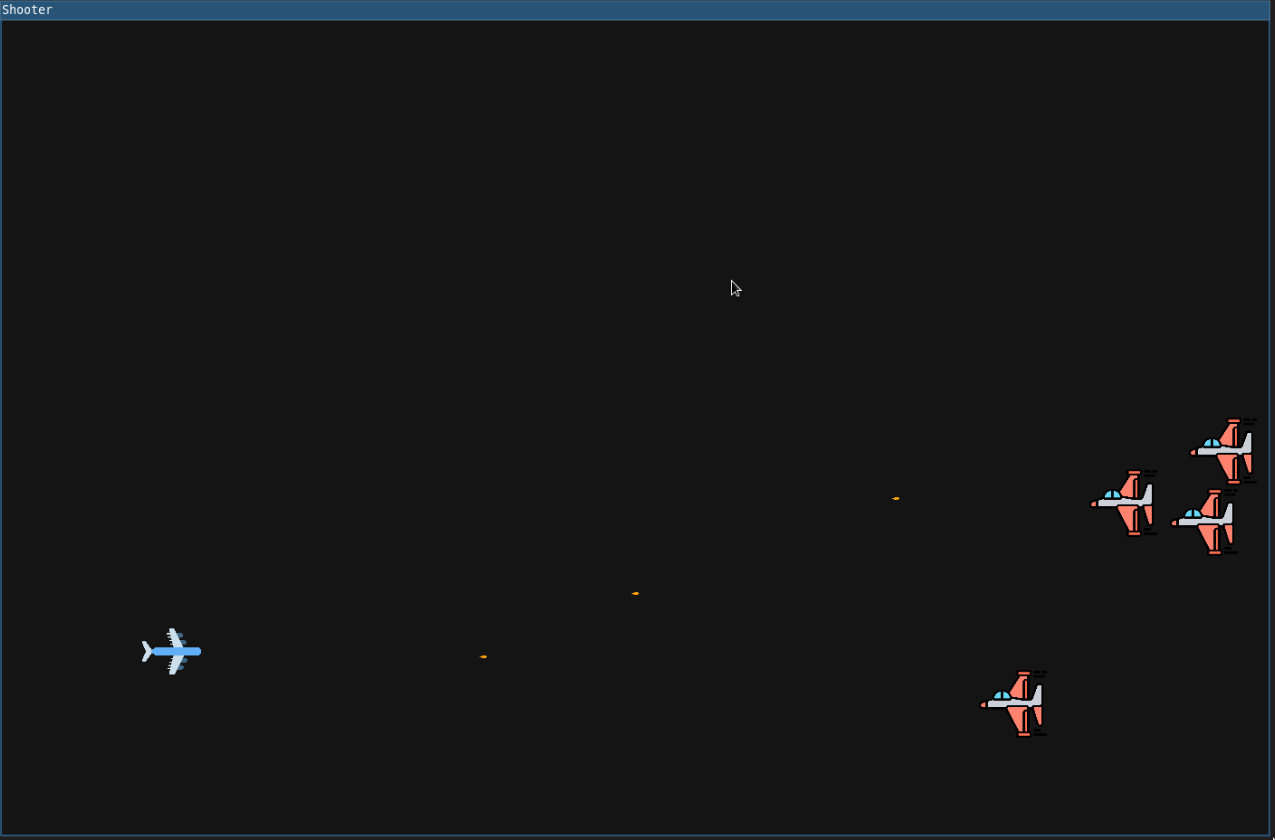
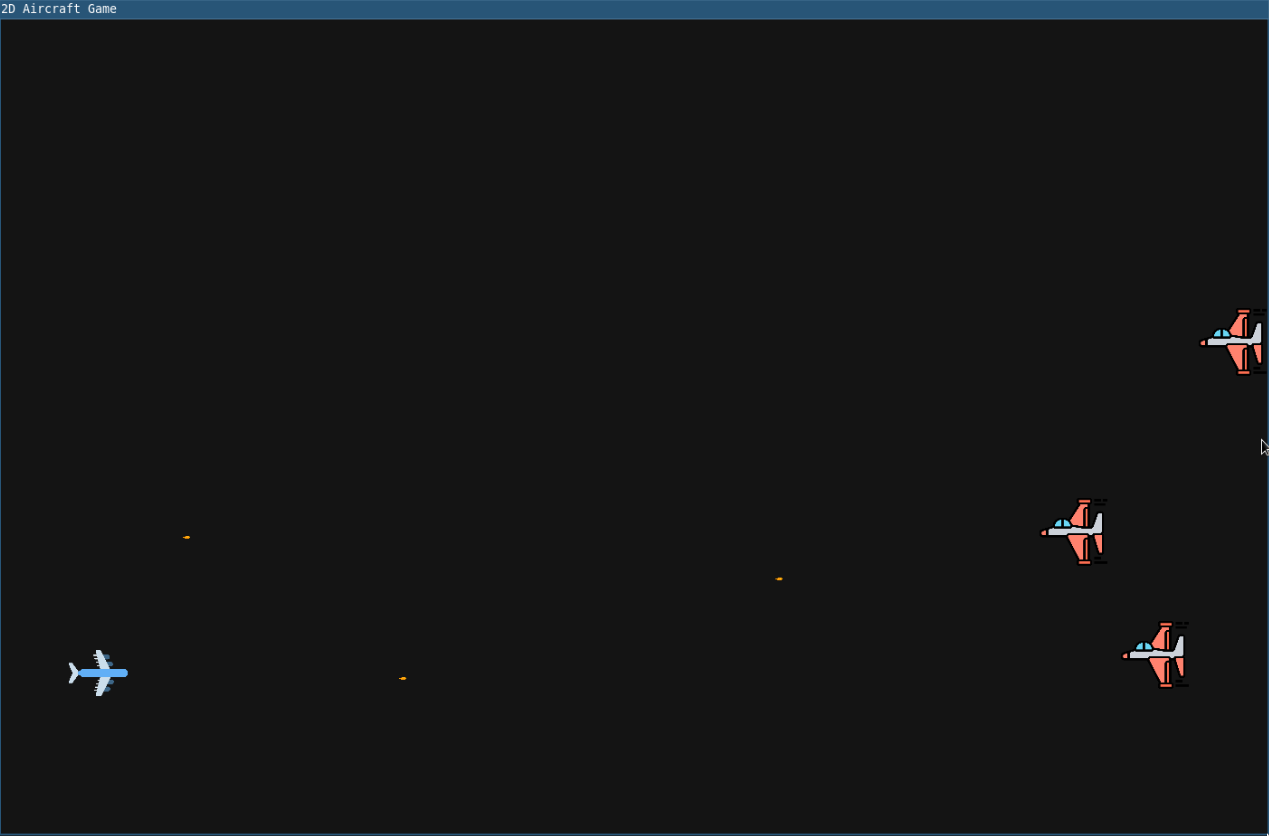
update readme

diff --git a/main.c b/main.c
@@ -108,7 +108,7 @@ struct Enemy_Stage
 SDL_Window *initialize_window(void)
 {
     int windowFlags = 0;
-    SDL_Window *window = SDL_CreateWindow("Shooter",
+    SDL_Window *window = SDL_CreateWindow("2D Aircraft Game",
 					  SDL_WINDOWPOS_UNDEFINED, SDL_WINDOWPOS_UNDEFINED,
 					  SCREEN_WIDTH, SCREEN_HEIGHT, windowFlags);
 
@@ -511,8 +511,10 @@ int main(void)
     SDL_Event event;
     while (!app.termination) {
 	prepareScene();
+
 	gameListener(&player, &player_bullet_stage);
 	updateEntityPosition(&player.entity, player.dx, player.dy);
+
 	spawnEnemies(&enemy_stage);
 	spawnEnemyBullets(&enemy_stage, &enemy_bullet_stage);
 
@@ -524,6 +526,7 @@ int main(void)
 	placeBulletStage(&player_bullet_stage);
 	placeBulletStage(&enemy_bullet_stage);
 	placeEnemyStage(&enemy_stage);
+
 	presentScene();
 	SDL_Delay(16);
     }
@@ -532,6 +535,7 @@ int main(void)
 }
 
 // TODO: Player protects wall from enemy (will affect to score of player)
+// TODO: Handle better spawn strategy for enemy aircrafts
 // TODO: Make window dynamically resizable
 // TODO: Add audio
 // TODO: Add score table
